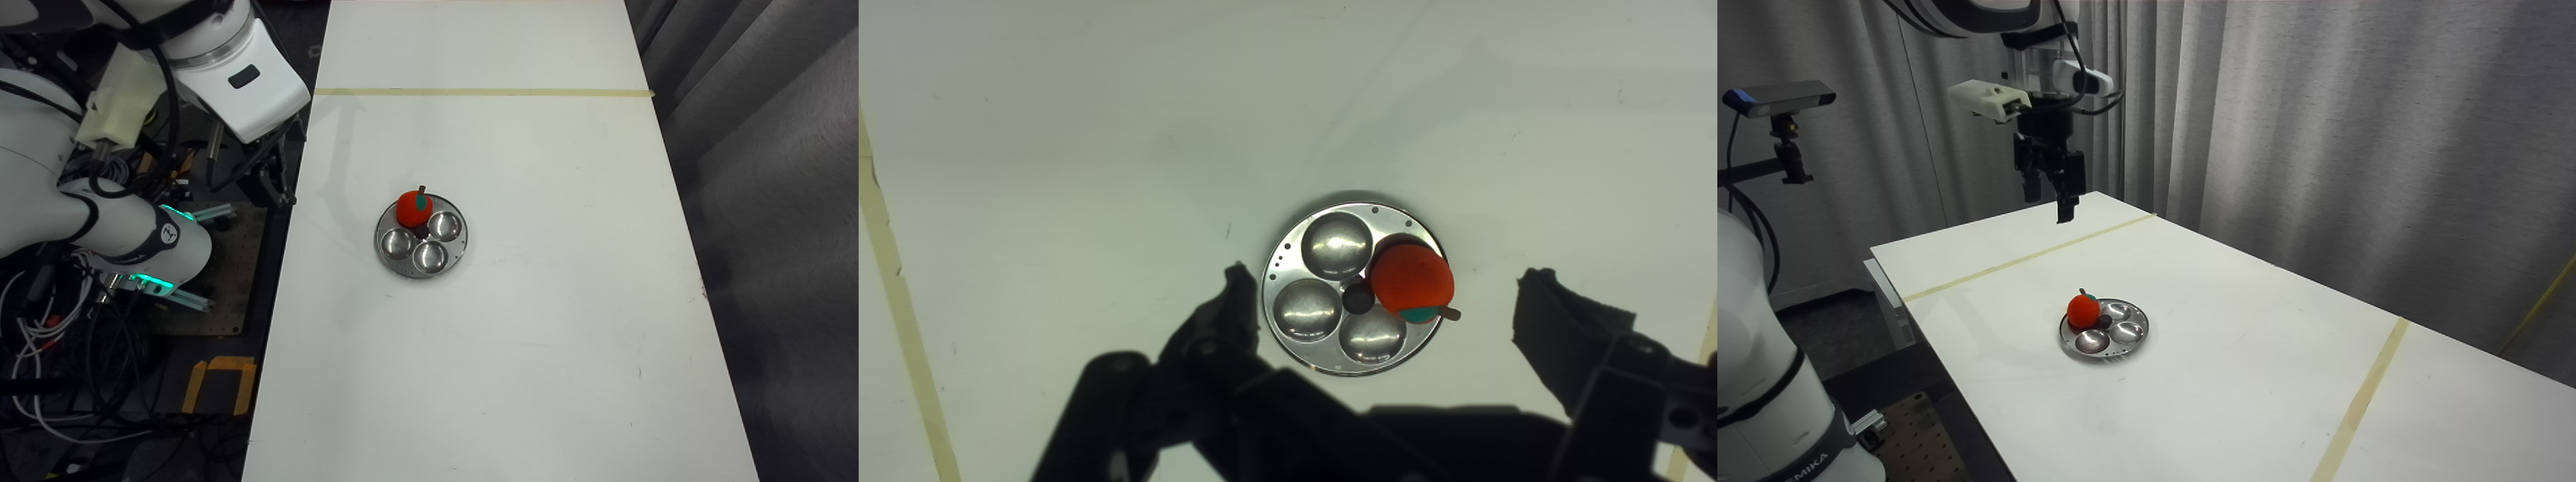
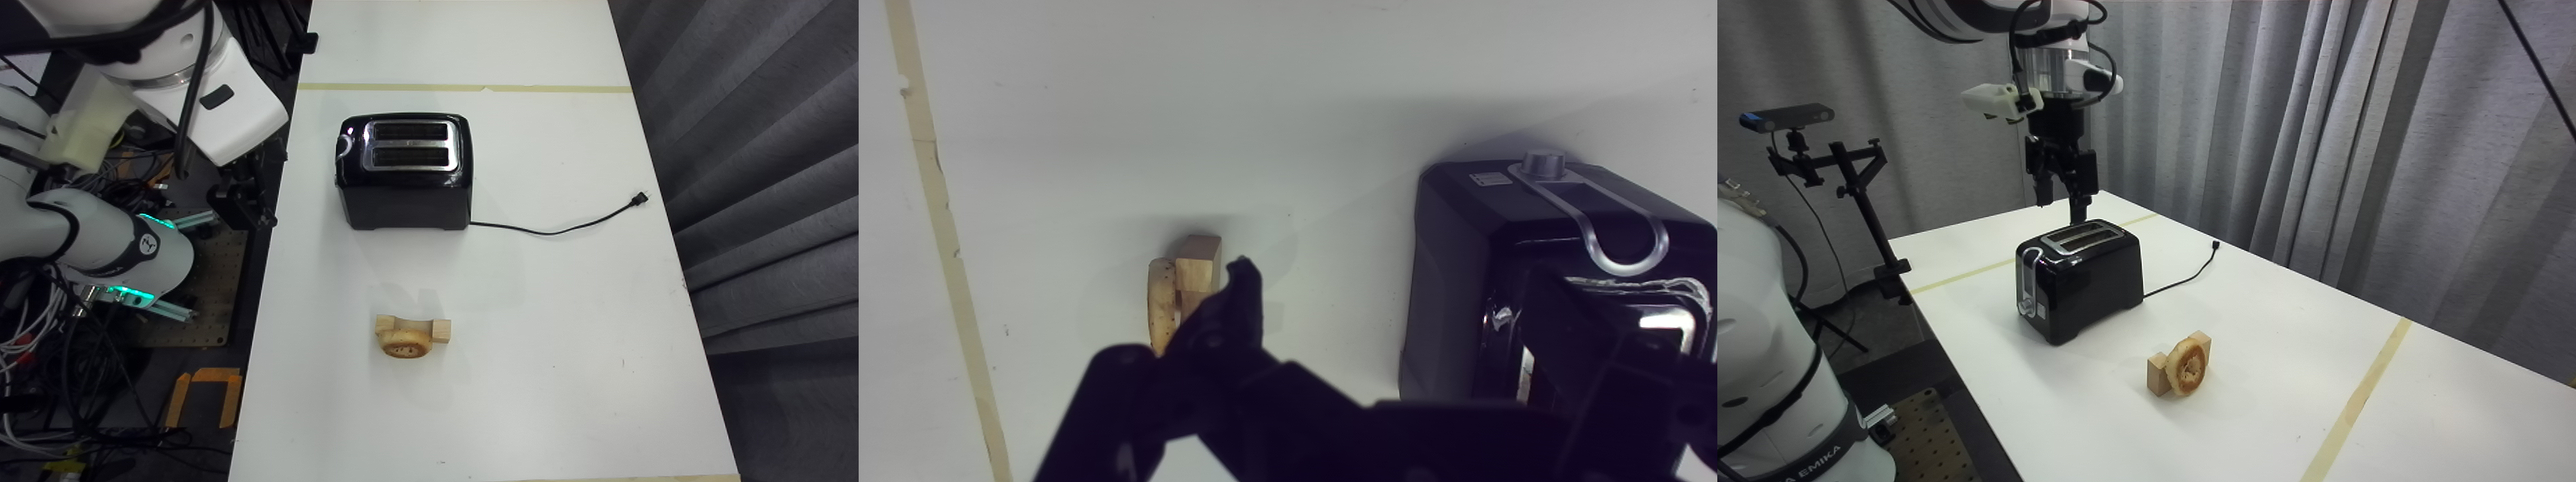
added mainr egent bagel finetune

diff --git a/scripts/main_regent_bagel_finetune.py b/scripts/main_regent_bagel_finetune.py
@@ -1,0 +1,277 @@
+# ruff: noqa
+
+import contextlib
+import dataclasses
+import datetime
+import faulthandler
+import os
+import signal
+
+from moviepy.editor import ImageSequenceClip
+import numpy as np
+from openpi_client import image_tools
+from openpi_client import websocket_client_policy
+import pandas as pd
+from PIL import Image
+from droid.robot_env import RobotEnv
+import tqdm
+import tyro
+
+faulthandler.enable()
+
+
+@dataclasses.dataclass
+class Args:
+    # Hardware parameters
+    top_camera_id: str = "26368109" # other camera is 25455306
+    right_camera_id: str = "27085680" #  
+    wrist_camera_id: str = "14436910"  # 
+
+    # Rollout parameters
+    max_timesteps: int = 2000
+    # How many actions to execute from a predicted action chunk before querying policy server again
+    # 8 is usually a good default (equals 0.5 seconds of action execution).
+    open_loop_horizon: int = 3
+
+    # Remote server parameters
+    remote_host: str = "158.130.52.14"  # point this to the IP address of the policy server, e.g., "192.168.1.100"
+    remote_port: int = (
+        8000  # point this to the port of the policy server, default server port for openpi servers is 8000
+    )
+
+    # Evaluation parameters
+    eval_name: str = "default"  # Name for this evaluation session
+
+
+# We are using Ctrl+C to optionally terminate rollouts early -- however, if we press Ctrl+C while the policy server is
+# waiting for a new action chunk, it will raise an exception and the server connection dies.
+# This context manager temporarily prevents Ctrl+C and delays it after the server call is complete.
+@contextlib.contextmanager
+def prevent_keyboard_interrupt():
+    """Temporarily prevent keyboard interrupts by delaying them until after the protected code."""
+    interrupted = False
+    original_handler = signal.getsignal(signal.SIGINT)
+
+    def handler(signum, frame):
+        nonlocal interrupted
+        interrupted = True
+
+    signal.signal(signal.SIGINT, handler)
+    try:
+        yield
+    finally:
+        signal.signal(signal.SIGINT, original_handler)
+        if interrupted:
+            raise KeyboardInterrupt
+
+
+def main(args: Args):
+    og_open_loop_horizon = args.open_loop_horizon
+    first_one = og_open_loop_horizon
+    second_one = 5
+    third_one = 10
+    print("Entered main!")
+    # Initialize the Panda environment. Using joint velocity action space and gripper position action space is very important.
+    env = RobotEnv(action_space="joint_velocity", gripper_action_space="position")
+    print("Created the droid env!")
+
+    # Connect to the policy server
+    print("Connecting to the policy server...")
+    policy_client = websocket_client_policy.WebsocketClientPolicy(args.remote_host, args.remote_port)
+    print("Connected to the policy server!")
+
+    # Initialize
+    date = datetime.datetime.now().strftime("%m%d")
+
+    while True:
+        # Get text inputs
+        main_category = input("Enter the prefix for this video filename: ")
+        instruction = input("Enter instruction: ")
+
+        # Rollout parameters
+        actions_from_chunk_completed = 0
+        pred_action_chunk = None
+
+        # Prepare to save video of rollout
+        timestamp = datetime.datetime.now().strftime("%Y_%m_%d_%H:%M:%S")
+
+        # Create a filename-safe version of the instruction
+        safe_instruction = instruction.replace(" ", "_").replace("/", "_").replace("\\", "_")[:50]  # limit length
+        top_video = []
+        right_video = []
+        wrist_video = []  # New list for wrist camera frames
+        #joint_positions = []
+        #action_state = []
+
+
+        bar = tqdm.tqdm(range(args.max_timesteps))
+        switch_time = None
+        second_switch_time = None
+        third_switch_time = None
+        print("Running rollout... press Ctrl+C to stop early.")
+        for t_step in bar:
+            try:
+
+                curr_obs = _extract_observation(
+                    args,
+                    env.get_observation(),
+                    save_to_disk=t_step == 0,
+                )
+
+                # Save both camera views
+                top_video.append(curr_obs[f"top_image"])
+                right_video.append(curr_obs[f"right_image"])
+                wrist_video.append(curr_obs["wrist_image"])
+
+
+                # Send websocket request to policy server if it's time to predict a new chunk
+                if actions_from_chunk_completed == 0 or actions_from_chunk_completed >= args.open_loop_horizon:
+                    actions_from_chunk_completed = 0
+
+                    # We resize images on the robot laptop to minimize the amount of data sent to the policy server
+                    # and improve latency.
+                    request_data = {
+                        "query_right_image": image_tools.resize_with_pad(
+                            curr_obs[f"right_image"], 224, 224
+                        ),
+                        "query_top_image": image_tools.resize_with_pad(
+                            curr_obs[f"top_image"], 224, 224
+                        ),
+                        "query_wrist_image": image_tools.resize_with_pad(curr_obs["wrist_image"], 224, 224),
+                        "query_state": np.concatenate([curr_obs["joint_position"], curr_obs["gripper_position"]]),
+                        "query_prompt": instruction,
+                        "prefix": main_category,
+                    }
+
+                    # Wrap the server call in a context manager to prevent Ctrl+C from interrupting it
+                    # Ctrl+C will be handled after the server call is complete
+                    with prevent_keyboard_interrupt():
+                        # this returns action chunk [10, 8] of 10 joint velocity actions (7) + gripper position (1)
+                        pred_action_chunk = policy_client.infer(request_data)["query_actions"]
+                    assert pred_action_chunk.shape in [(10, 8), (15, 8)]
+
+                    if args.open_loop_horizon == first_one and switch_time is None and pred_action_chunk[-1, -1] > 0.9:
+                        print(f'switch time is {t_step}')
+                        switch_time = t_step
+
+                    if args.open_loop_horizon == first_one and switch_time is not None and second_switch_time is None and t_step - switch_time > 10:
+                        print(f"Switching to open loop horizon of {second_one} for grasping at second_switch_time of {t_step}")
+                        args.open_loop_horizon = second_one # for grasping
+                        second_switch_time = t_step
+
+                    if args.open_loop_horizon == second_one and second_switch_time is not None and third_switch_time is None and t_step - second_switch_time > 10:
+                        print(f"Switching to open loop horizon of {third_one} for lifting at third_switch_time of {t_step}")
+                        args.open_loop_horizon = third_one # for lifting
+                        third_switch_time = t_step
+
+                    # if args.open_loop_horizon == 8 and second_switch_time is not None and t_step - second_switch_time > 10:
+                    #     print(f"Switching back to open loop horizon of 3 for moving at time {t_step}")
+                    #     args.open_loop_horizon = 3 # back to 3 for moving
+                    #     switch_time = None
+                    #     second_switch_time = None
+                    
+                # Select current action to execute from chunk
+                action = pred_action_chunk[actions_from_chunk_completed]
+                actions_from_chunk_completed += 1
+
+                # Binarize gripper action
+                if action[-1].item() > 0.5:
+                    # action[-1] = 1.0
+                    action = np.concatenate([action[:-1], np.ones((1,))])
+                else:
+                    # action[-1] = 0.0
+                    action = np.concatenate([action[:-1], np.zeros((1,))])
+
+                # clip all dimensions of action to [-1, 1]
+                action = np.clip(action, -1, 1)
+
+                #action_state.append(action)
+                #joint_positions.append(curr_obs["joint_position"])
+
+                env.step(action)
+            except KeyboardInterrupt:
+                break
+
+        # Stack videos side by side
+        top_video = np.stack(top_video)
+        right_video = np.stack(right_video)
+        wrist_video = np.stack(wrist_video)
+        #action_csv = np.stack(action_state)
+        #joint_csv = np.stack(joint_positions)
+        #combined_action_csv = np.concatenate([action_csv, joint_csv], axis=1)
+        
+        # Ensure both videos have the same height for side-by-side display
+        target_height = min(top_video.shape[1], wrist_video.shape[1], right_video.shape[1])
+        target_width = min(top_video.shape[2], wrist_video.shape[2], right_video.shape[2])
+        
+        # Resize both videos to the same dimensions
+        top_video_resized = np.array([image_tools.resize_with_pad(frame, target_height, target_width) for frame in top_video])
+        right_video_resized = np.array([image_tools.resize_with_pad(frame, target_height, target_width) for frame in right_video])
+        wrist_video_resized = np.array([image_tools.resize_with_pad(frame, target_height, target_width) for frame in wrist_video])
+        
+        # Stack videos horizontally
+        combined_video = np.concatenate([top_video_resized, right_video_resized, wrist_video_resized], axis=2)
+
+        date = datetime.datetime.now().strftime("%m%d")
+        save_dir = f"results_regent/videos/{date}"
+        os.makedirs(save_dir, exist_ok=True)
+        save_filename = os.path.join(save_dir, f"{main_category.replace(' ', '_')}_{safe_instruction}_{timestamp}.mp4")
+        
+        ImageSequenceClip(list(combined_video), fps=10).write_videofile(save_filename, codec="libx264")
+
+        if input("Do one more eval? (enter y or n) ").lower() != "y":
+            break
+        env.reset()
+        if args.open_loop_horizon != og_open_loop_horizon:
+            args.open_loop_horizon = og_open_loop_horizon
+
+def _extract_observation(args: Args, obs_dict, *, save_to_disk=False):
+    image_observations = obs_dict["image"]
+    top_image, right_image, wrist_image = None, None, None
+    for key in image_observations:
+        # Note the stereo_choice = "left" below refers to one of the two cameras in the stereo pair.
+        # The model is only trained on this one of the stereo cams, so we only feed that one.
+        stereo_choice = "left"
+        if args.top_camera_id in key and stereo_choice in key:
+            top_image = image_observations[key]
+        elif args.right_camera_id in key and stereo_choice in key:
+            right_image = image_observations[key]
+        elif args.wrist_camera_id in key and stereo_choice in key:
+            wrist_image = image_observations[key]
+
+    # Drop the alpha dimension
+    top_image = top_image[..., :3]
+    right_image = right_image[..., :3]
+    wrist_image = wrist_image[..., :3]
+
+    # Convert to RGB
+    top_image = top_image[..., ::-1]
+    right_image = right_image[..., ::-1]
+    wrist_image = wrist_image[..., ::-1]
+
+    # In addition to image observations, also capture the proprioceptive state
+    robot_state = obs_dict["robot_state"]
+    cartesian_position = np.array(robot_state["cartesian_position"])
+    joint_position = np.array(robot_state["joint_positions"])
+    gripper_position = np.array([robot_state["gripper_position"]])
+
+    # Save the images to disk so that they can be viewed live while the robot is running
+    # Create one combined image to make live viewing easy
+    if save_to_disk:
+        combined_image = np.concatenate([top_image, wrist_image, right_image], axis=1)
+        combined_image = Image.fromarray(combined_image)
+        combined_image.save("robot_camera_views.png")
+
+    return {
+        "top_image": top_image,
+        "right_image": right_image,
+        "wrist_image": wrist_image,
+        "cartesian_position": cartesian_position,
+        "joint_position": joint_position,
+        "gripper_position": gripper_position,
+    }
+
+
+if __name__ == "__main__":
+    args: Args = tyro.cli(Args)
+    main(args)

diff --git a/regent.md b/regent.md
@@ -1,4 +1,34 @@
 
+finetune_bagel_4
+
+pick up the bagel and put it in the toaster
+
+
+finetune_lever_1
+
+push the lever on the toaster
+
+
+
+
+
+
+
+
+
+
+
+
+
+
+
+
+
+
+
+
+
+
 
 
 ckpt5400longer-idli-plate-phonecamera
